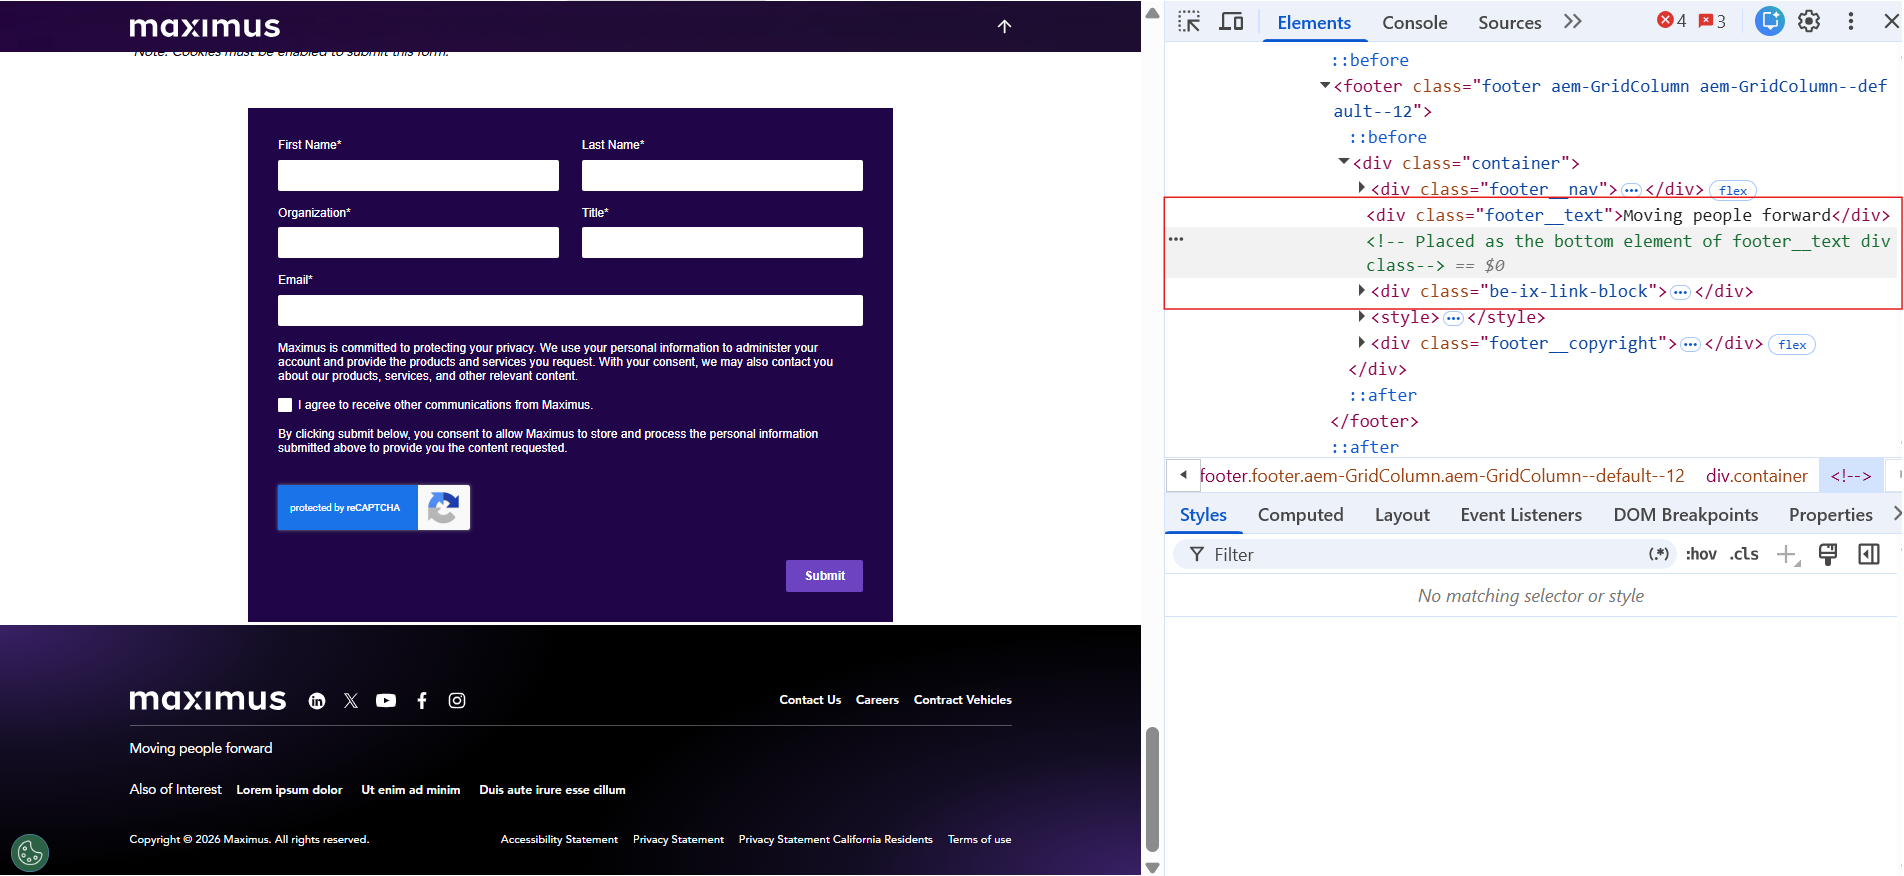
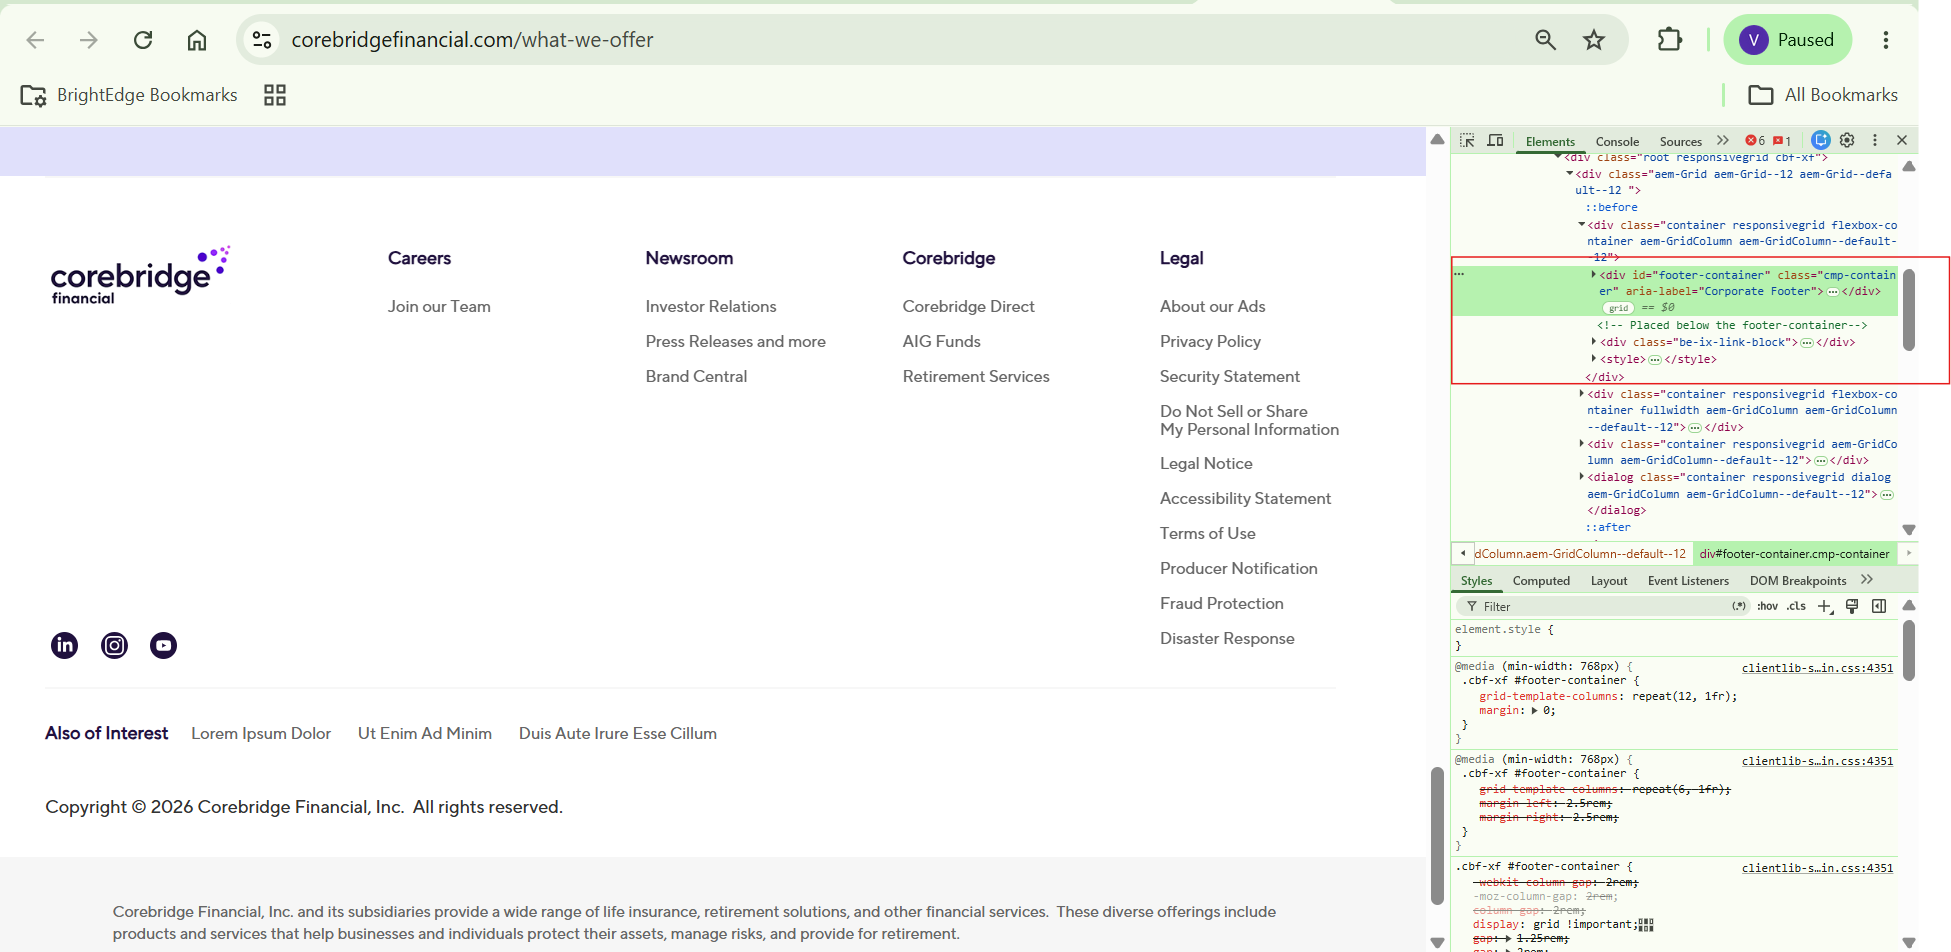
corebridgefinancial

diff --git a/BrightEdgeUtil.java b/BrightEdgeUtil.java
@@ -38,7 +38,7 @@ public class BrightEdgeUtil {
 
 		IXFConfiguration ixfConfig = new IXFSDKConfiguration();
 		ixfConfig.setProperty(IXFConfiguration.CAPSULE_MODE, IXFConfiguration.REMOTE_PROD_CAPSULE_MODE);
-		ixfConfig.setProperty(IXFConfiguration.ACCOUNT_ID, "f00000000331713");
+		ixfConfig.setProperty(IXFConfiguration.ACCOUNT_ID, "f00000000333784");
 		ixfConfig.setProperty(IXFConfiguration.API_ENDPOINT, "https://ixfd1-api.bc0a.com/");
 
 		// BE IXF: Update CHARSET if needed
@@ -60,6 +60,10 @@ public class BrightEdgeUtil {
 		// ixfConfig.setProperty(IXFConfiguration.PROXY_HOST, hostname);
 		// ixfConfig.setProperty(IXFConfiguration.PROXY_PORT, "1234");
 		// ixfConfig.setProperty(IXFConfiguration.PROXY_PROTOCOL, "https");
+		// ixfConfig.setProperty(IXFConfiguration.CONNECT_TIMEOUT, 2000);
+		// ixfConfig.setProperty(IXFConfiguration.SOCKET_TIMEOUT, 2000);
+ 
+ 
 
 		IXFSDKParameters parameters = new IXFSDKParameters(request);
 		IXFSDKClient client = new IXFSDKClient(ixfConfig, response, parameters);
